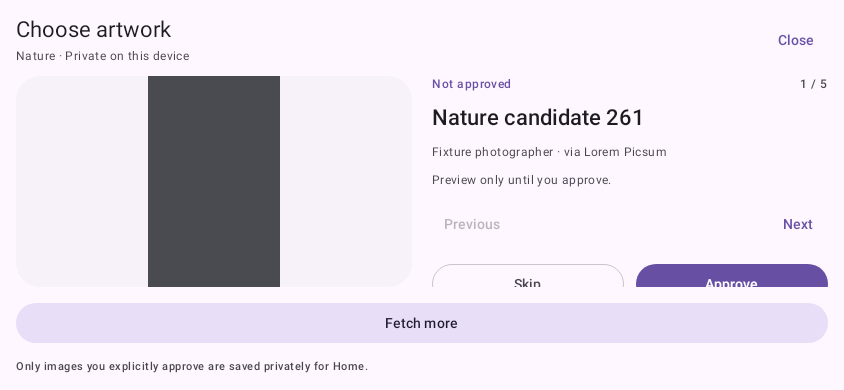
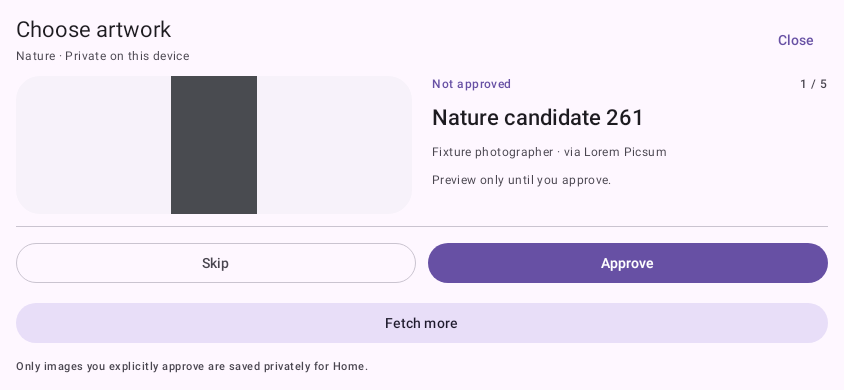
Keep artwork approval actions visible above the gallery footer

diff --git a/core/components/src/commonMain/kotlin/com/starception/submission/settings/components/HomeArtworkReviewControls.kt b/core/components/src/commonMain/kotlin/com/starception/submission/settings/components/HomeArtworkReviewControls.kt
@@ -148,8 +148,7 @@ private fun ArtworkReviewGallery(
                                 ArtworkPreviewActions(candidate, index, state, approvalMessage, linkError, approving,
                                     onPrevious = { index = (index - 1).coerceAtLeast(0) },
                                     onNext = { index = (index + 1).coerceAtMost(state.candidates.lastIndex) },
-                                    onSkip = { onDismissCandidate(candidate.artwork.id) },
-                                    onApprove = { onApprove(candidate) }, onOpen = ::open,
+                                    onOpen = ::open,
                                     modifier = Modifier.weight(1f).fillMaxHeight().verticalScroll(rememberScrollState()))
                             }
                         } else {
@@ -160,12 +159,19 @@ private fun ArtworkReviewGallery(
                                 ArtworkPreviewActions(candidate, index, state, approvalMessage, linkError, approving,
                                     onPrevious = { index = (index - 1).coerceAtLeast(0) },
                                     onNext = { index = (index + 1).coerceAtMost(state.candidates.lastIndex) },
-                                    onSkip = { onDismissCandidate(candidate.artwork.id) },
-                                    onApprove = { onApprove(candidate) }, onOpen = ::open)
+                                    onOpen = ::open)
                             }
                         }
                     }
                     if (candidate != null) {
+                        HorizontalDivider()
+                        Row(Modifier.fillMaxWidth(), horizontalArrangement = Arrangement.spacedBy(12.dp)) {
+                            OutlinedButton(onClick = { onDismissCandidate(candidate.artwork.id) },
+                                enabled = !state.loading && !approving,
+                                modifier = Modifier.weight(1f).testTag("homeArtworkSkip")) { Text("Skip") }
+                            Button(onClick = { onApprove(candidate) }, enabled = !state.loading && !approving,
+                                modifier = Modifier.weight(1f).testTag("homeArtworkApprove")) { Text("Approve") }
+                        }
                         FilledTonalButton(onClick = { index = 0; onFetch() }, enabled = !state.loading && !approving,
                             modifier = Modifier.fillMaxWidth().testTag("homeArtworkReviewFetchMore")) {
                             Text(if (state.loading) "Fetching…" else "Fetch more")
@@ -198,8 +204,6 @@ private fun ArtworkPreviewActions(
     approving: Boolean,
     onPrevious: () -> Unit,
     onNext: () -> Unit,
-    onSkip: () -> Unit,
-    onApprove: () -> Unit,
     onOpen: (String) -> Unit,
     modifier: Modifier = Modifier,
 ) {
@@ -221,11 +225,6 @@ private fun ArtworkPreviewActions(
         Row(Modifier.fillMaxWidth(), horizontalArrangement = Arrangement.SpaceBetween) {
             TextButton(onClick = onPrevious, enabled = index > 0) { Text("Previous") }
             TextButton(onClick = onNext, enabled = index < state.candidates.lastIndex) { Text("Next") }
-        }
-        Row(Modifier.fillMaxWidth(), horizontalArrangement = Arrangement.spacedBy(12.dp)) {
-            OutlinedButton(onClick = onSkip, enabled = !approving, modifier = Modifier.weight(1f)) { Text("Skip") }
-            Button(onClick = onApprove, enabled = !approving,
-                modifier = Modifier.weight(1f).testTag("homeArtworkApprove")) { Text("Approve") }
         }
         TextButton(onClick = { details = !details }) { Text(if (details) "Hide details" else "Source & rights") }
         if (details) {

diff --git a/app/src/testDemo/kotlin/com/starception/submission/feature/prayertimes/ArtworkReviewControlsTest.kt b/app/src/testDemo/kotlin/com/starception/submission/feature/prayertimes/ArtworkReviewControlsTest.kt
@@ -102,6 +102,17 @@ class ArtworkReviewControlsTest {
         }
     }
 
+    @Test @Config(qualifiers = "w360dp-h640dp-mdpi")
+    fun compactPhoneKeepsReviewActionsVisibleWithoutScrolling() {
+        RuntimeEnvironment.setFontScale(1.5f)
+        render(dark = false)
+        openGallery()
+        compose.onNodeWithTag("homeArtworkApprove").assertIsDisplayed().assertIsEnabled()
+        compose.onNodeWithTag("homeArtworkSkip").assertIsDisplayed().assertIsEnabled()
+        compose.onNodeWithTag("homeArtworkReviewFetchMore").assertIsDisplayed()
+        compose.onNodeWithTag("homeArtworkReviewGallery").captureRoboImage("src/testDemo/screenshots/home_artwork_choose_compact.png")
+    }
+
     @Test fun closingTheGalleryClearsItsSessionAndAllowsReopening() {
         render()
         openGallery()
@@ -125,7 +136,8 @@ class ArtworkReviewControlsTest {
     fun landscapeKeepsThePreviewAndActionsReachable() {
         render(dark = false)
         openGallery()
-        compose.onNodeWithTag("homeArtworkApprove").performScrollTo().assertIsDisplayed()
+        compose.onNodeWithTag("homeArtworkApprove").assertIsDisplayed()
+        compose.onNodeWithTag("homeArtworkSkip").assertIsDisplayed()
         compose.onNodeWithTag("homeArtworkReviewFetchMore").assertIsDisplayed()
         compose.onNodeWithText("Close").assertIsDisplayed()
         compose.onNodeWithText("Not approved").performScrollTo()
@@ -137,7 +149,7 @@ class ArtworkReviewControlsTest {
         RuntimeEnvironment.setFontScale(1.5f)
         render()
         openGallery()
-        compose.onNodeWithTag("homeArtworkApprove").performScrollTo().performClick()
+        compose.onNodeWithTag("homeArtworkApprove").assertIsDisplayed().performClick()
         compose.onNodeWithTag("homeArtworkConfirmContent").performScrollTo().assertIsOn()
         compose.onNodeWithTag("homeArtworkConfirmRights").performScrollTo().assertIsOn()
         compose.onNodeWithTag("homeArtworkApproveConfirm").assertIsDisplayed().assertIsEnabled()
@@ -150,7 +162,7 @@ class ArtworkReviewControlsTest {
     @Test fun approvalStartsCheckedAndSavesOnlyAfterExplicitApproval() {
         render()
         openGallery()
-        compose.onAllNodesWithTag("homeArtworkApprove")[0].performScrollTo().performClick()
+        compose.onAllNodesWithTag("homeArtworkApprove")[0].assertIsDisplayed().performClick()
         compose.onNodeWithTag("homeArtworkConfirmContent").assertIsOn()
         compose.onNodeWithTag("homeArtworkConfirmRights").assertIsOn()
         compose.onNodeWithTag("homeArtworkApproveConfirm").assertIsEnabled()
